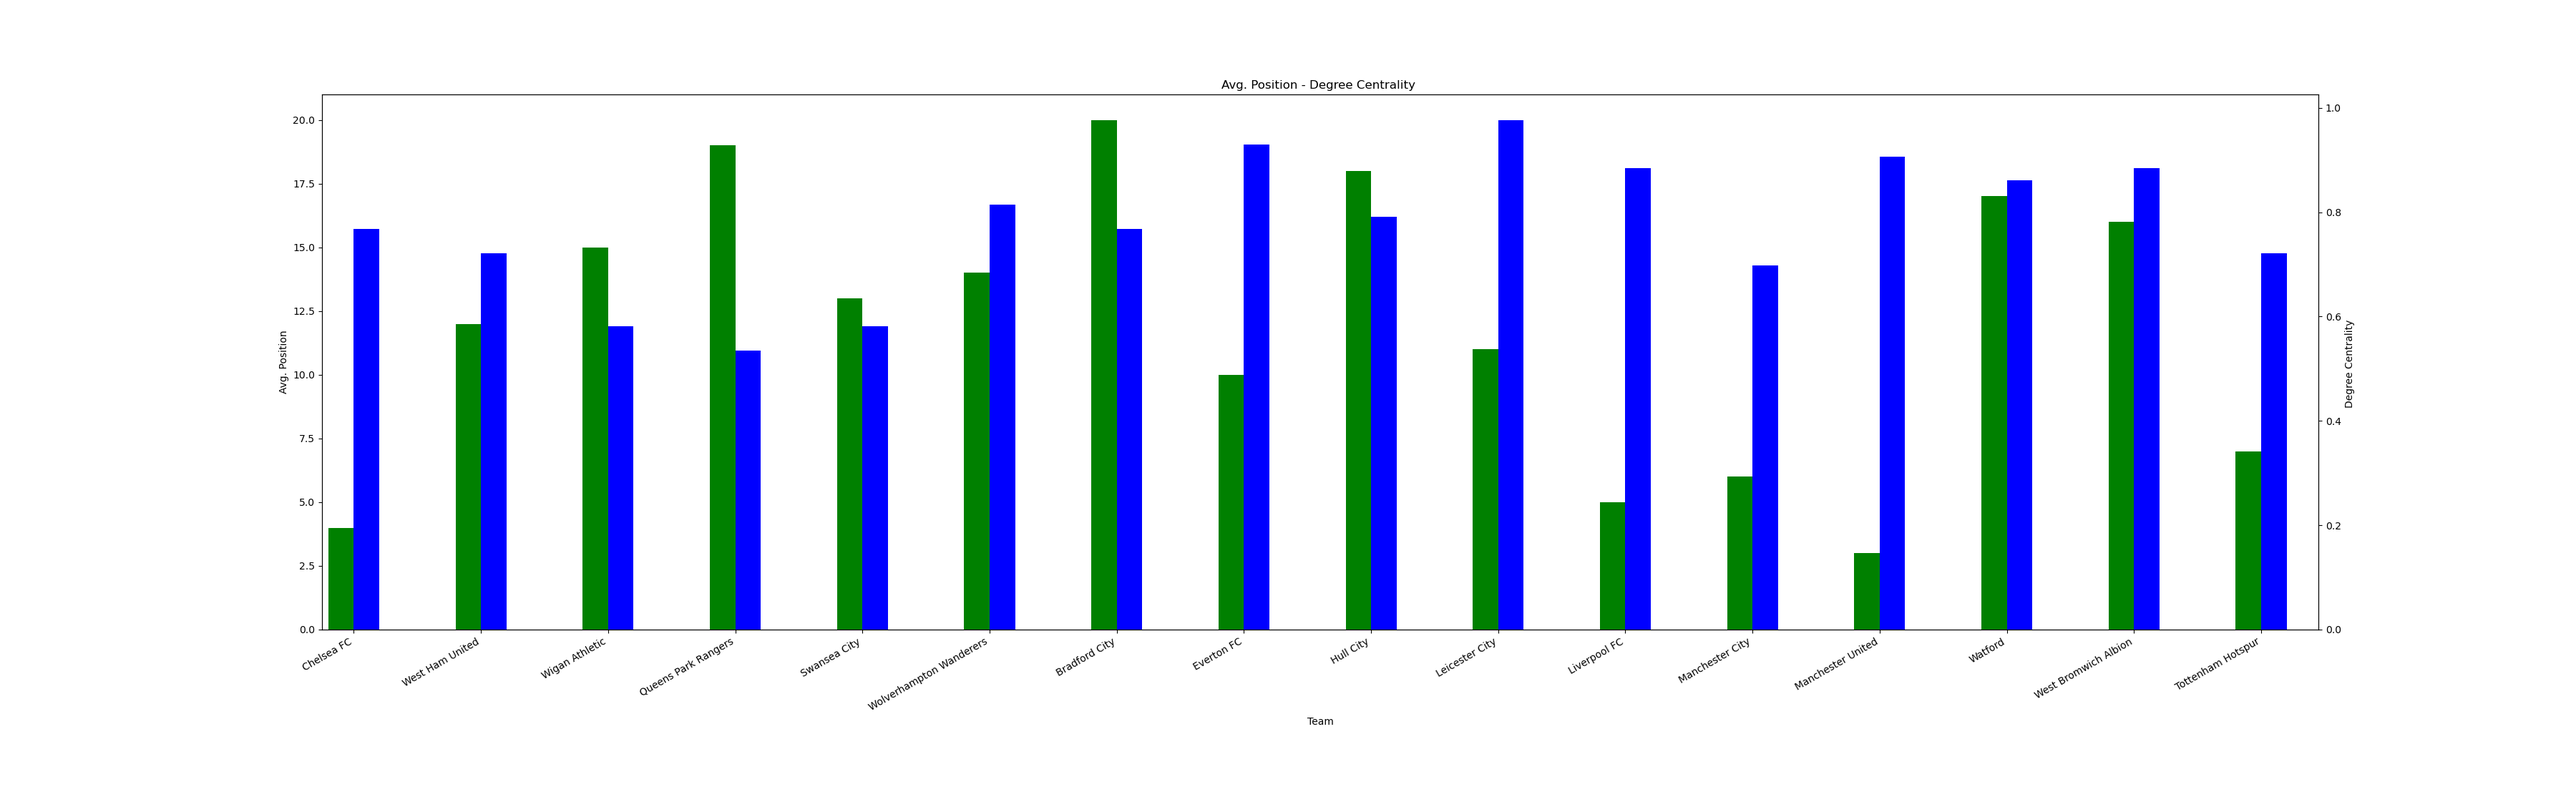
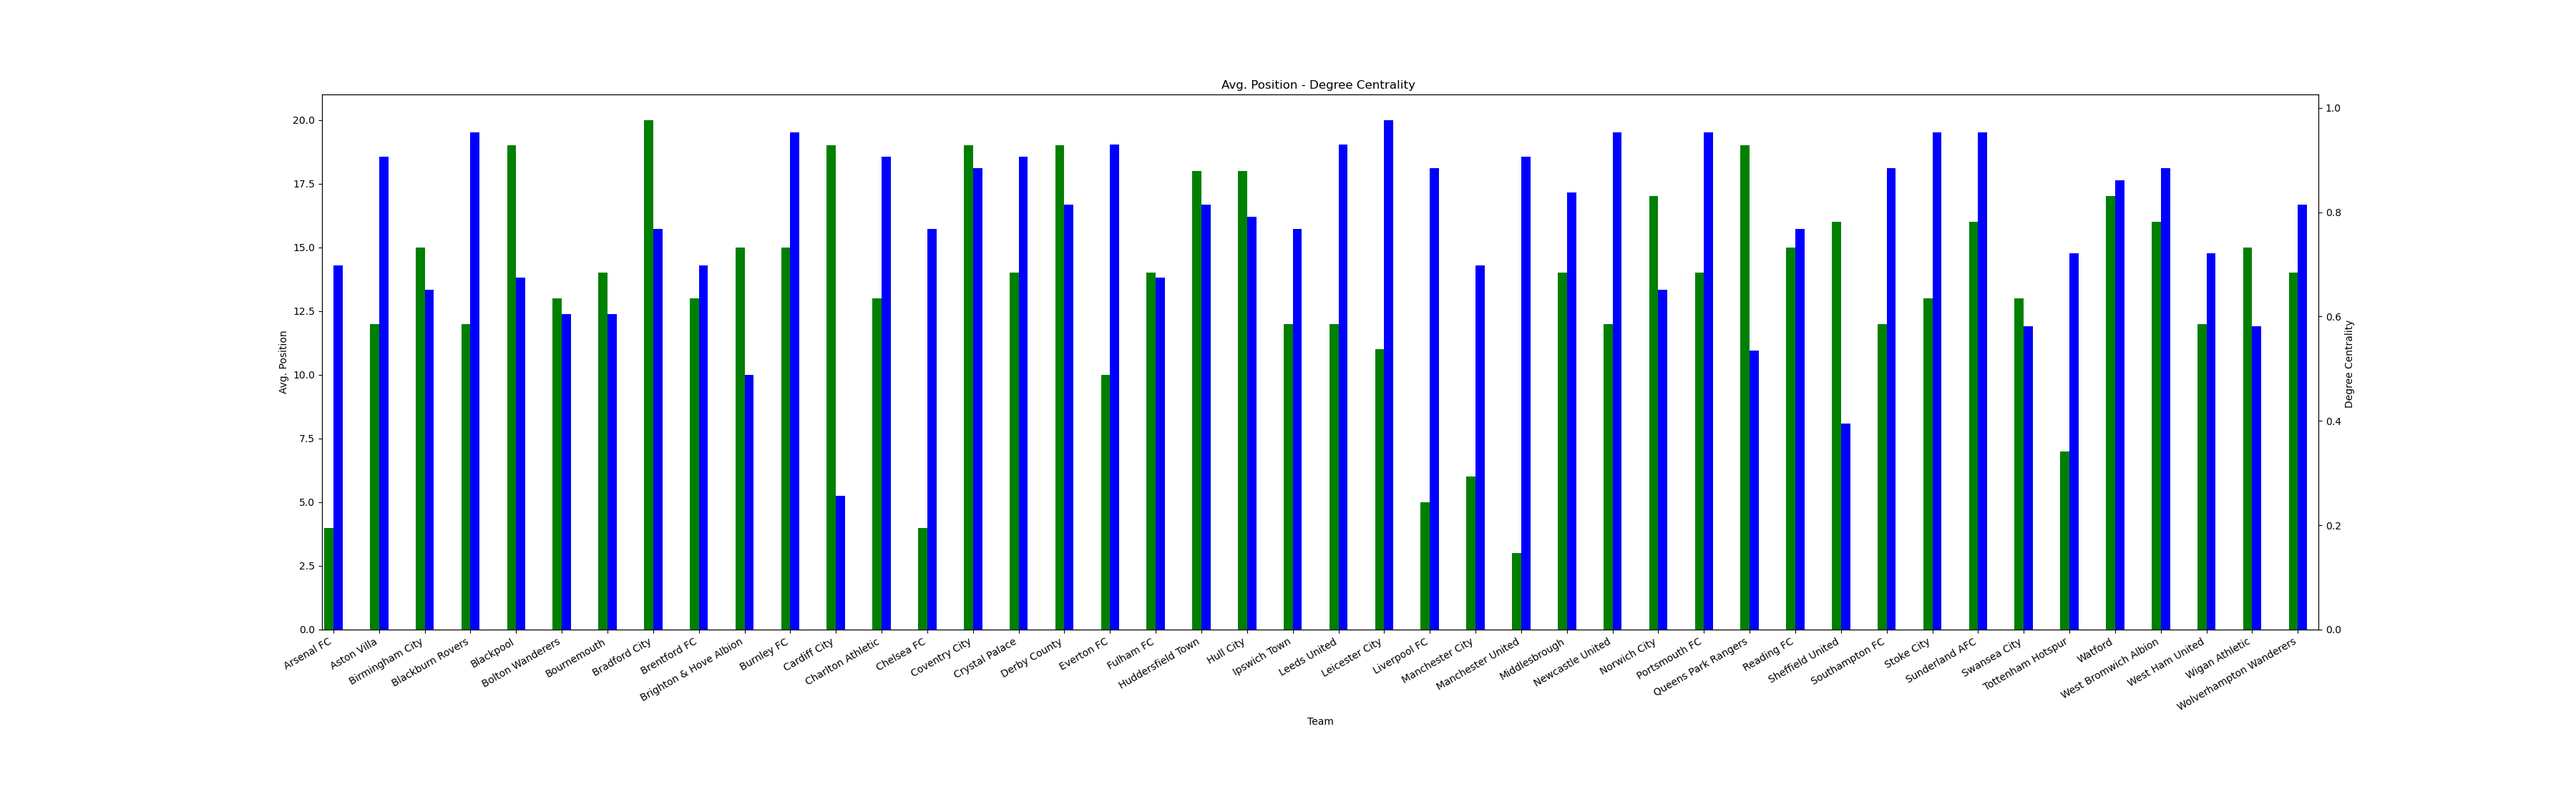
Plots fixed

Changed region(s): [[0.1244, 0.1545, 0.9022, 0.8964]]

diff --git a/src/stats_comm.py b/src/stats_comm.py
@@ -79,17 +79,16 @@ class StatsAndCommunities:
         
         
     def calculating_pearson_corr_stats(self, data):
-        money = list(data.keys())
-        #other_value = list(data.values())
+        names = list(data.keys())
         
-        t_list = []
+        values = []
         attrs = []
         for (ts, attr) in data.values():
-            t_list.append(ts)
+            values.append(ts)
             attrs.append(attr)
         
         y = np.array(attrs)
-        x = np.array(money)
+        x = np.array(values)
         corr_coeff = sp.stats.spearmanr(y, x)
         
         return corr_coeff
@@ -157,12 +156,12 @@ class StatsAndCommunities:
         for team, (avg_pos, points) in stats.items():
             teams.append(team)
             print(f"Betweenness Centrality {team:2} {betw[team]:.3f}")
-            b_points.update({points:(team, betw[team])})
-            b_pos.update({avg_pos:(team, betw[team])})
+            b_points.update({team:(points, betw[team])})
+            b_pos.update({team:(avg_pos, betw[team])})
                 
                 
         #points_corr = self.calculating_pearson_corr_stats(b_points)
-       #print("The points - betwenneess corr. coeff. for teams is ", points_corr, "\n")
+        #print("The points - betwenneess corr. coeff. for teams is ", points_corr, "\n")
         
         #position_corr = self.calculating_pearson_corr_stats(b_pos)
         #print("The position - betwenneess corr. coeff. for teams is ", position_corr, "\n")
@@ -177,14 +176,14 @@ class StatsAndCommunities:
         for team, (avg_pos, points) in stats.items():
             teams.append(team)
             print(f"Closeness Centrality { team:2} {close[team]:.3f}")
-            b_points.update({points:(team, close[team])})
-            b_pos.update({avg_pos:(team, close[team])})
+            b_points.update({team:(points, close[team])})
+            b_pos.update({team:(avg_pos, close[team])})
                 
-        points_corr = self.calculating_pearson_corr_stats(b_points)
-        print("The points - closenes corr. coeff. for teams is ", points_corr, "\n")
+        # points_corr = self.calculating_pearson_corr_stats(b_points)
+        # print("The points - closenes corr. coeff. for teams is ", points_corr, "\n")
         
-        position_corr = self.calculating_pearson_corr_stats(b_pos)
-        print("The position - closenes corr. coeff. for teams is ", position_corr, "\n")
+        # position_corr = self.calculating_pearson_corr_stats(b_pos)
+        # print("The position - closenes corr. coeff. for teams is ", position_corr, "\n")
         
         self.plotting_categorical(b_points,  "Points", "Closeness Centrality")
         self.plotting_categorical(b_pos,  "Avg. Position", "Closeness Centrality")
@@ -196,32 +195,34 @@ class StatsAndCommunities:
         for team, (avg_pos, points) in stats.items():
             teams.append(team)
             print(f"Degree Centrality {team:2} {deg[team]:.3f}")
-            b_points.update({points:(team, deg[team])})
-            b_pos.update({avg_pos:(team, deg[team])})
+            b_points.update({team:(points, deg[team])})
+            b_pos.update({team:(avg_pos, deg[team])})
                 
-        points_corr = self.calculating_pearson_corr_stats(b_points)
-        print("The points - degree centrality corr. coeff. for teams is ", points_corr, "\n")
+        # points_corr = self.calculating_pearson_corr_stats(b_points)
+        # print("The points - degree centrality corr. coeff. for teams is ", points_corr, "\n")
         
-        position_corr = self.calculating_pearson_corr_stats(b_pos)
-        print("The position - degree centrality corr. coeff. for teams is ", position_corr, "\n")
+        # position_corr = self.calculating_pearson_corr_stats(b_pos)
+        # print("The position - degree centrality corr. coeff. for teams is ", position_corr, "\n")
         
         self.plotting_categorical(b_points,  "Points", "Degree Centrality ")
         self.plotting_categorical(b_pos, "Avg. Position", "Degree Centrality ")
         
         
     def plotting_categorical(self, data, attribute, val_name):
-        values = list(data.keys()) # Points / Avg. position
+        teams = list(data.keys()) # Points / Avg. position
         
-        t_list = []
+        values = []
         attrs = []
         for (ts, attr) in data.values():
-            t_list.append(ts)
+            values.append(ts)
             attrs.append(attr)
+            
+        print(len(attrs))
         
         df = pd.DataFrame(list(zip(values, attrs)),
                columns =['Value', 'Attribute'])
         
-        df = df.set_axis(t_list)
+        df = df.set_axis(teams)
 
         # print(df) # Print list of the names
         fig = plt.figure(figsize=(36,11)) # Create matplotlib figure
